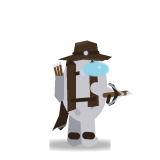
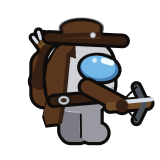
Redraw the hunter skin on the game's own bean proportions
The figure is rebuilt against the vanilla player sheet: body as wide as it is tall, thick dark outline, big forward-sitting visor, two stubby legs, and hat, duster, quiver and crossbow layered on top of that silhouette instead of replacing it. The coat deliberately stays narrow - the mod multiplies the player's colour onto this sprite, and a coat covering the whole bean leaves nothing for that colour to show on. Hat and visor lag the body by a third of the bob, and the coat hem finally uses the flap parameter.

SkinContentTop 0.77 -> 0.894, measured on the rendered frame (content spans y 17..145 of 160 px): the new drawing fills its canvas far better, and the old value would have parked the name tag inside the hat.

diff --git a/HunterFx.cs b/HunterFx.cs
@@ -30,10 +30,11 @@ namespace UnknownsCollection {
         // anywhere near the beast (~2.2 units).
         private const float SkinPpu = 100f;
 
-        // Where the drawn figure ends inside its frame, measured from the BOTTOM (DrawHunterSkin puts
-        // the ground line at 0.90 and the hat crown at ~0.25 of the canvas, counted from the top).
-        // Only used to lift the name tag clear of the hat - see UCCharacterSkin.
-        private const float SkinContentTop = 0.77f;
+        // Where the drawn figure ends inside its frame, measured from the BOTTOM. Read off the
+        // rendered frame itself (content spans y 17..145 of 160 px), not off the drawing code: the
+        // 2026-07-26 redesign fills its canvas much better than the old one, and a stale value here
+        // would leave the name tag sitting in the hat. Only used for that lift - see UCCharacterSkin.
+        private const float SkinContentTop = 0.894f;
 
         private static readonly UCCharacterSkin skin =
             new UCCharacterSkin("Hunter", "hunter_skin_idle", 6, "hunter_skin_walk", 8, SkinPpu,
